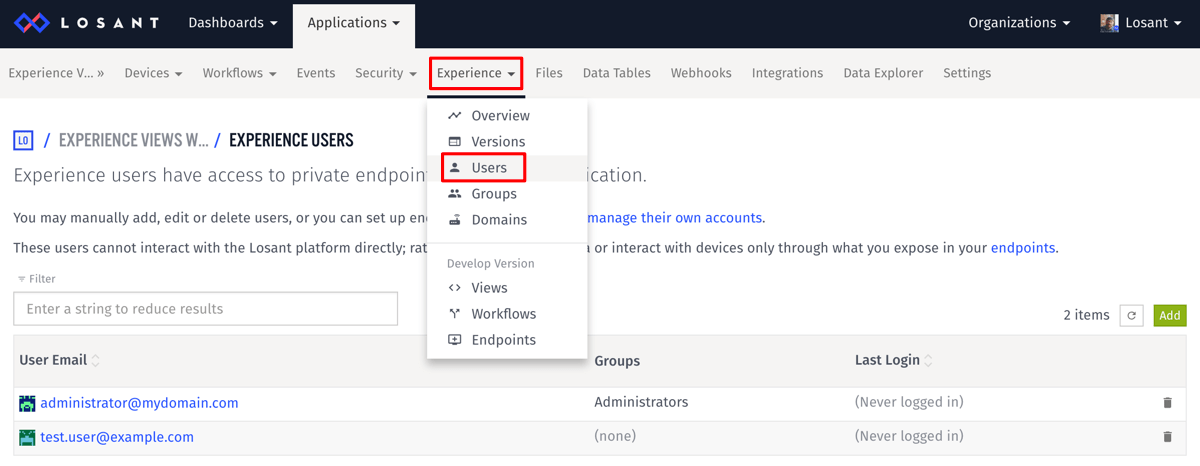
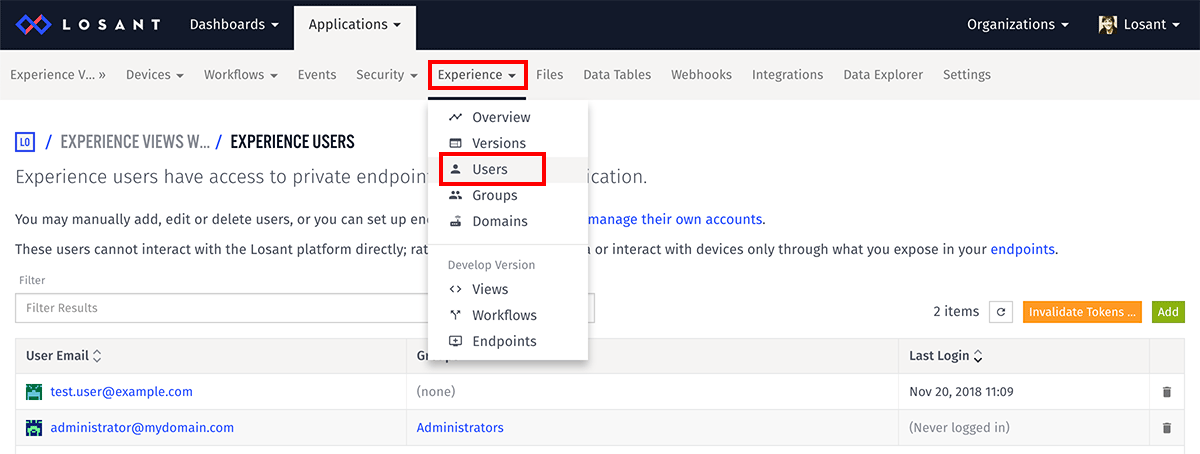
experience user page updates (token invalidation methods)

diff --git a/docs/experiences/users.md b/docs/experiences/users.md
@@ -54,13 +54,16 @@ Sometimes, it may be necessary to invalidate access tokens for one or more of yo
 
 ### All Users
 
-Beneath the experience users list is a button to invalidate the tokens of all experience users. Immediately after clicking this button, any authenticated made by an experience user will fail until that user has logged in again.
+Aotp the experience users list is a button to invalidate the tokens of all experience users. This will display a confirmation modal, and immediately after clicking the modal button, any authenticated request made by an experience user will fail until that user has logged in again.
 
-![Invalidate User Tokens](/images/experiences/invalidate-tokens.png "Invalidate User Tokens")
+![Invalidate Users Tokens](/images/experiences/invalidate-tokens.png "Invalidate Users Tokens")
 
 ### Specific Users
 
-A similar box exists at the bottom of an individual user's edit page, though clicking here only invalidates any access tokens issued for that one user.
+At the bottom of an individual user's edit page is a box for invalidating any access tokens issued for that one user.
+
+![Invalidate User Tokens](/images/experiences/invalidate-user-tokens.png "Invalidate User Tokens")
+
 
 Invalidating a user's tokens simply means that the user must re-authenticate using their email and password before they can make any more requests to [authenticated endpoints](/experiences/endpoints/#access-control). It does not take any destructive action on the user, nor does it automatically change their password.
 
